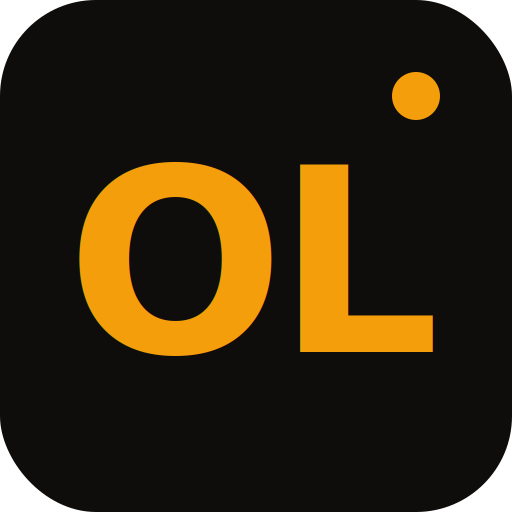
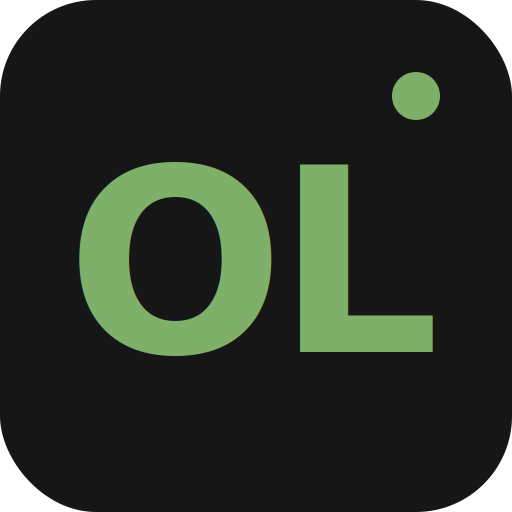
feat: switch to Graphite palette (charcoal + sage)

Changed region(s): [[0.1562, 0.3125, 0.5312, 0.7188], [0.5625, 0.3125, 0.8438, 0.6875], [0.75, 0.125, 0.875, 0.25]]

diff --git a/app/globals.css b/app/globals.css
@@ -4,21 +4,21 @@
 
 @layer base {
   :root {
-    /* Near-black, with a slight warm tilt so amber looks at home */
-    --background: 24 10% 5%;
-    --foreground: 36 20% 92%;
+    /* True charcoal, neutral (no warm or cool tilt) */
+    --background: 240 2% 9%;
+    --foreground: 60 5% 91%;
 
-    --surface: 24 8% 8%;
+    --surface: 240 3% 12%;
 
-    --muted: 24 6% 14%;
-    --muted-foreground: 30 8% 58%;
+    --muted: 240 3% 15%;
+    --muted-foreground: 50 4% 55%;
 
-    --border: 24 6% 16%;
-    --ring: 36 90% 56%;
+    --border: 240 3% 19%;
+    --ring: 101 32% 55%;
 
-    /* Warm amber */
-    --accent: 36 90% 56%;
-    --accent-foreground: 24 10% 5%;
+    /* Sage green accent */
+    --accent: 101 32% 55%;
+    --accent-foreground: 240 2% 9%;
   }
 
   html {

diff --git a/app/layout.tsx b/app/layout.tsx
@@ -16,7 +16,7 @@ const plexMono = IBM_Plex_Mono({
   display: "swap",
 });
 
-const SITE_URL = "https://portfolio-seven-dusky-as7n5k6lxt.vercel.app";
+const SITE_URL = "https://oliver-leonor.vercel.app";
 const TITLE = "Oliver Leonor | Full-stack developer & AI engineer";
 const DESCRIPTION =
   "I ship AI-native full-stack apps end to end with Claude Code. Fourteen years in IT, six shipping production software. Available for senior contract or full-time roles, PH / AU timezone.";
@@ -59,7 +59,7 @@ export const metadata: Metadata = {
 };
 
 export const viewport: Viewport = {
-  themeColor: "#0c0b0a",
+  themeColor: "#161617",
   width: "device-width",
   initialScale: 1,
 };

diff --git a/components/sections/philosophy.tsx b/components/sections/philosophy.tsx
@@ -13,7 +13,7 @@ export function Philosophy() {
         </div>
 
         <blockquote className="relative">
-          {/* Decorative oversized amber quote mark */}
+          {/* Decorative oversized quote mark */}
           <span
             aria-hidden
             className="absolute -left-1 -top-10 font-serif text-[7rem] leading-none text-accent/25 select-none"
